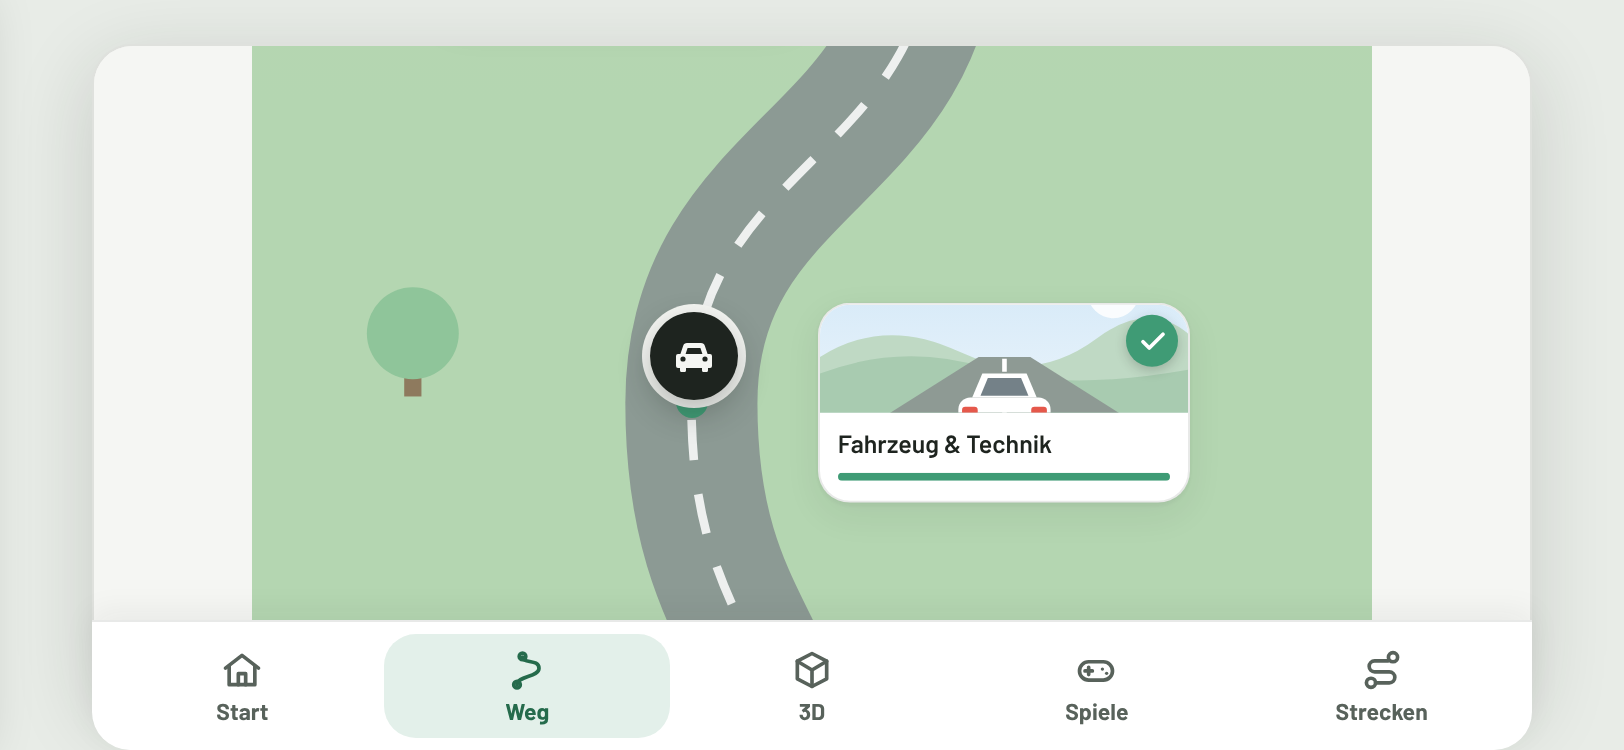
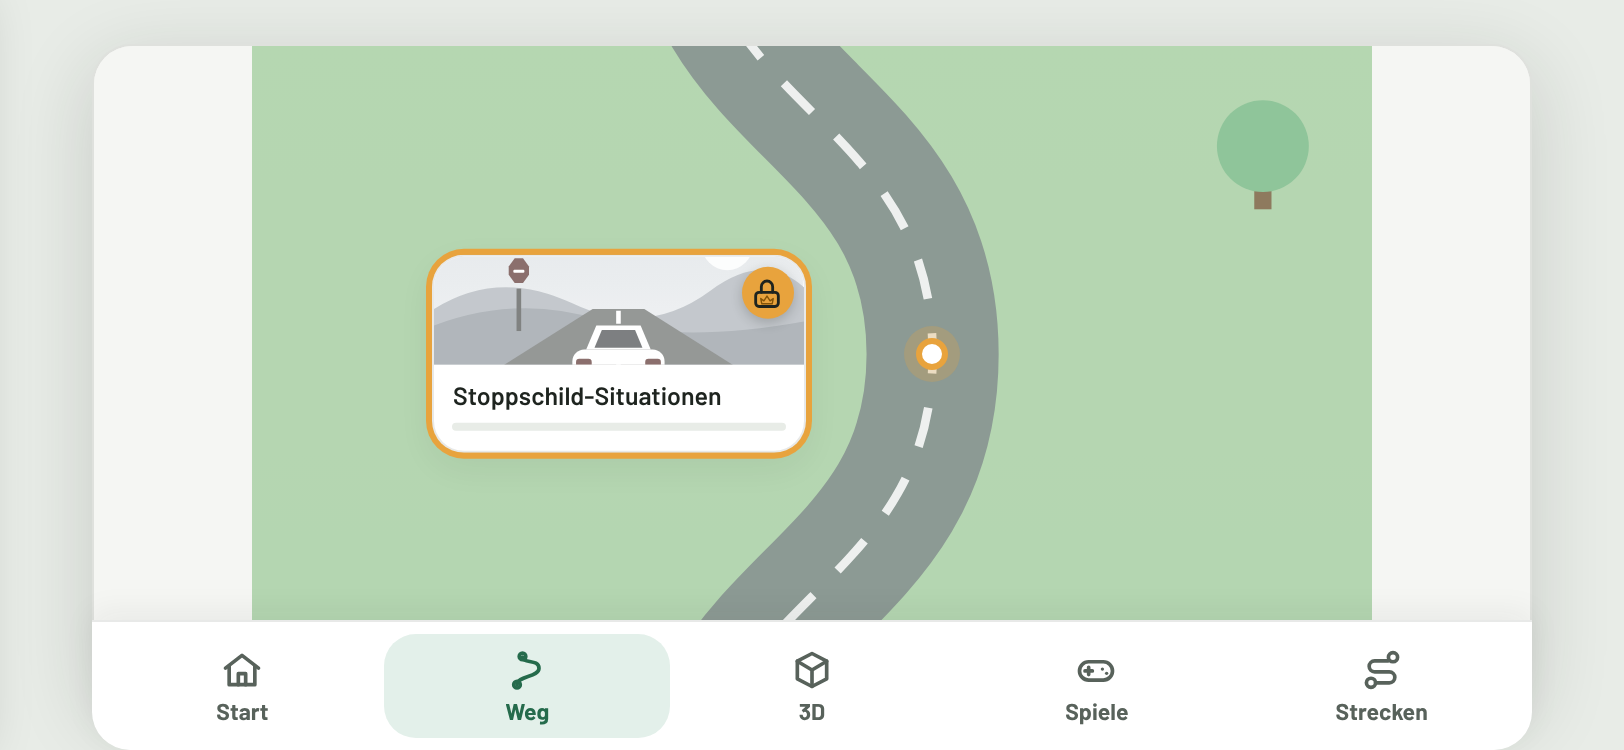
Weg quer: aktuelle Station am Ende mittig, Memory-Prüfung wartet aufs Schild-Bild
Claude-Session: https://claude.ai/code/session_01SkEyZY9ik3EDF7iEH77v8i

Changed region(s): [[0.2155, 0.0613, 0.7389, 0.828], [0.7389, 0.1227, 0.8313, 0.276]]

diff --git a/index.html b/index.html
@@ -8463,7 +8463,9 @@ function wegEinhaengen(){
   window.addEventListener("touchstart", aus, { once: true, passive: true }); window.addEventListener("wheel", aus, { once: true, passive: true });
   const folgen = function(){ if(!folgt || !fig.isConnected) return; fig.scrollIntoView({ block: "center", inline: "nearest" }); };   // 10.10.2026: scrollIntoView statt window.scrollTo, damit es auch im Papierbogen ab 760 px (#app scrollt) und quer greift
   folgen();
-  const merken = function(){ try{ localStorage.setItem(SPEICHER, String(ziel)); }catch(e){} };
+  // Quer (wenig Hoehe): am Ende die aktuelle Station mittig zeigen, damit etwas Antippbares im Bild ist (Weiter-Pille ist quer ausgeblendet)
+  const merken = function(){ try{ localStorage.setItem(SPEICHER, String(ziel)); }catch(e){}
+    if(folgt && window.innerHeight < 500){ const st = karte.querySelector(".wg-kachel.jetzt") || karte.querySelector(".wg-kachel"); if(st) st.scrollIntoView({ block: "center", inline: "nearest" }); } };
   if(ruhig || Math.abs(ziel - von) < 0.001){ setze(ziel); merken(); return; }
   // die Figur faehrt von ihrer letzten Position zur neuen (nur wenn sich seit dem letzten Besuch etwas getan hat)
   let t0 = null; const dauer = 1600;
